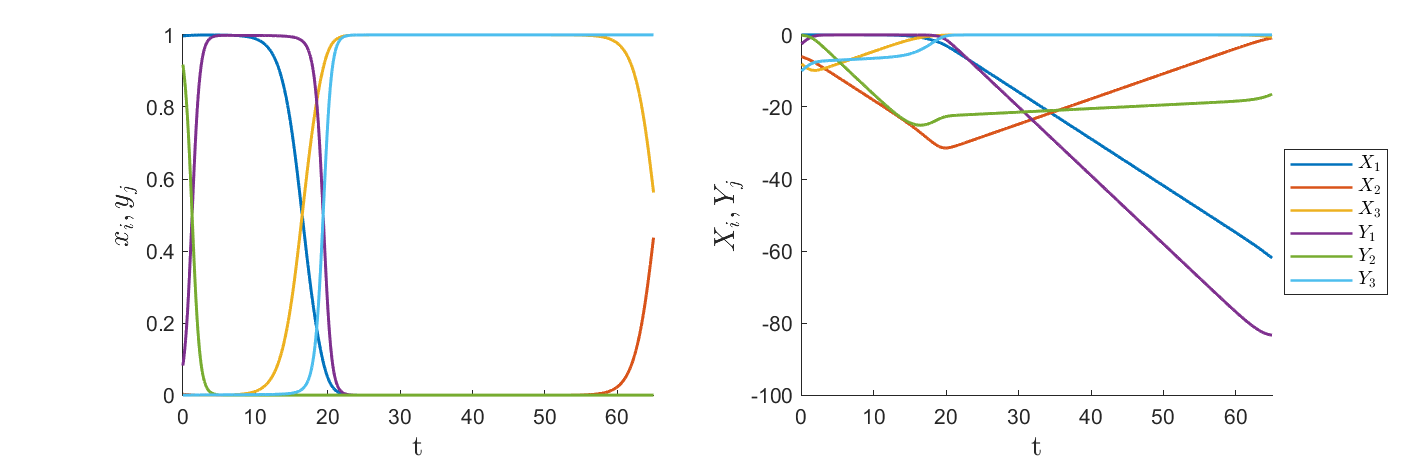
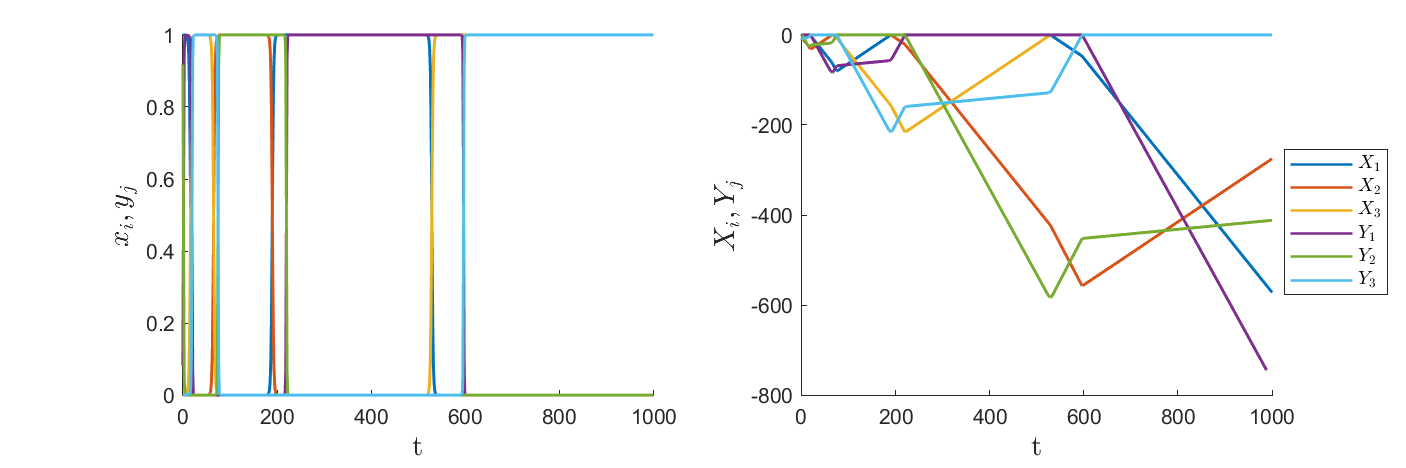
more stuff

diff --git a/transitionMatrices.m b/transitionMatrices.m
@@ -52,4 +52,4 @@ resultC2 = PodviginasMatrix(A_C2_0, 100, false, [159, 248, 127]/256);
 P1 = [0 1 0; 1 0 0; 0 0 1];
 P2 = [1 0 0; 0 0 1; 0 1 0];
 A_0 = @(ex,ey) P1*M_1to0(ex,ey)*P2*M_2to1(ex,ey)*M_1to2(ex,ey)*P2*M_0to1(ex,ey);
-PodviginasMatrix(A_0, 100, true, [0.7 0.2 0.9])
+PodviginasMatrix(A_0, 1000, true, [0.7 0.2 0.9])

diff --git a/Figures.m b/Figures.m
@@ -106,7 +106,7 @@ savefig('Figures/switchingCoordsConstraint_t20.fig')
 saveas(gcf, 'Figures/switchingCoordsConstraint_t20.png')
 
 %% Method 4b: 4eq, log eq with switching constraint for longer time
-
+simulationTime=1000
 [t, U] = simulateRSP(simulationTime, [x y], p)
 close all
 figure('Position', [0 0 900 300]);
